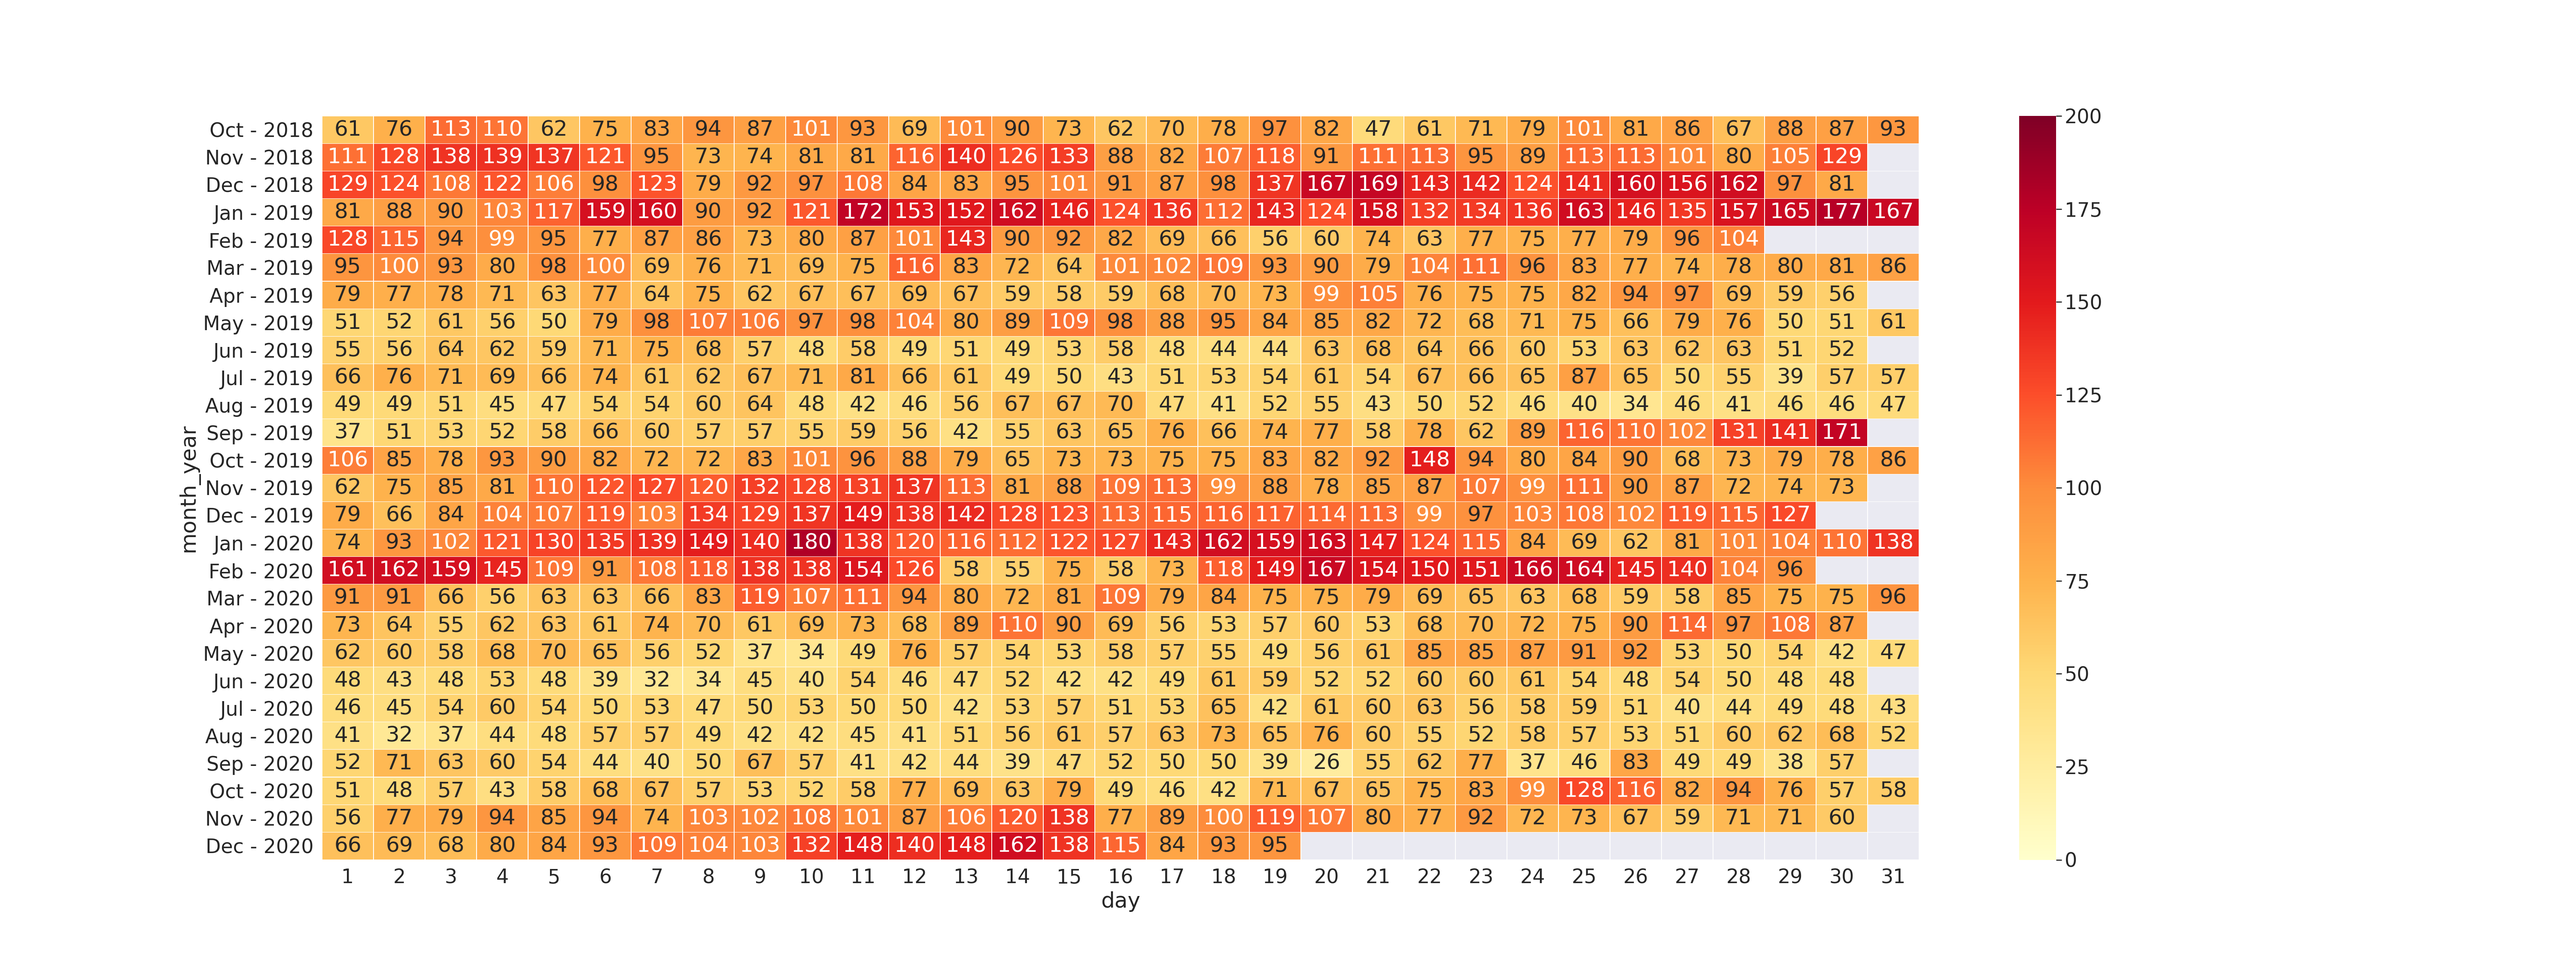
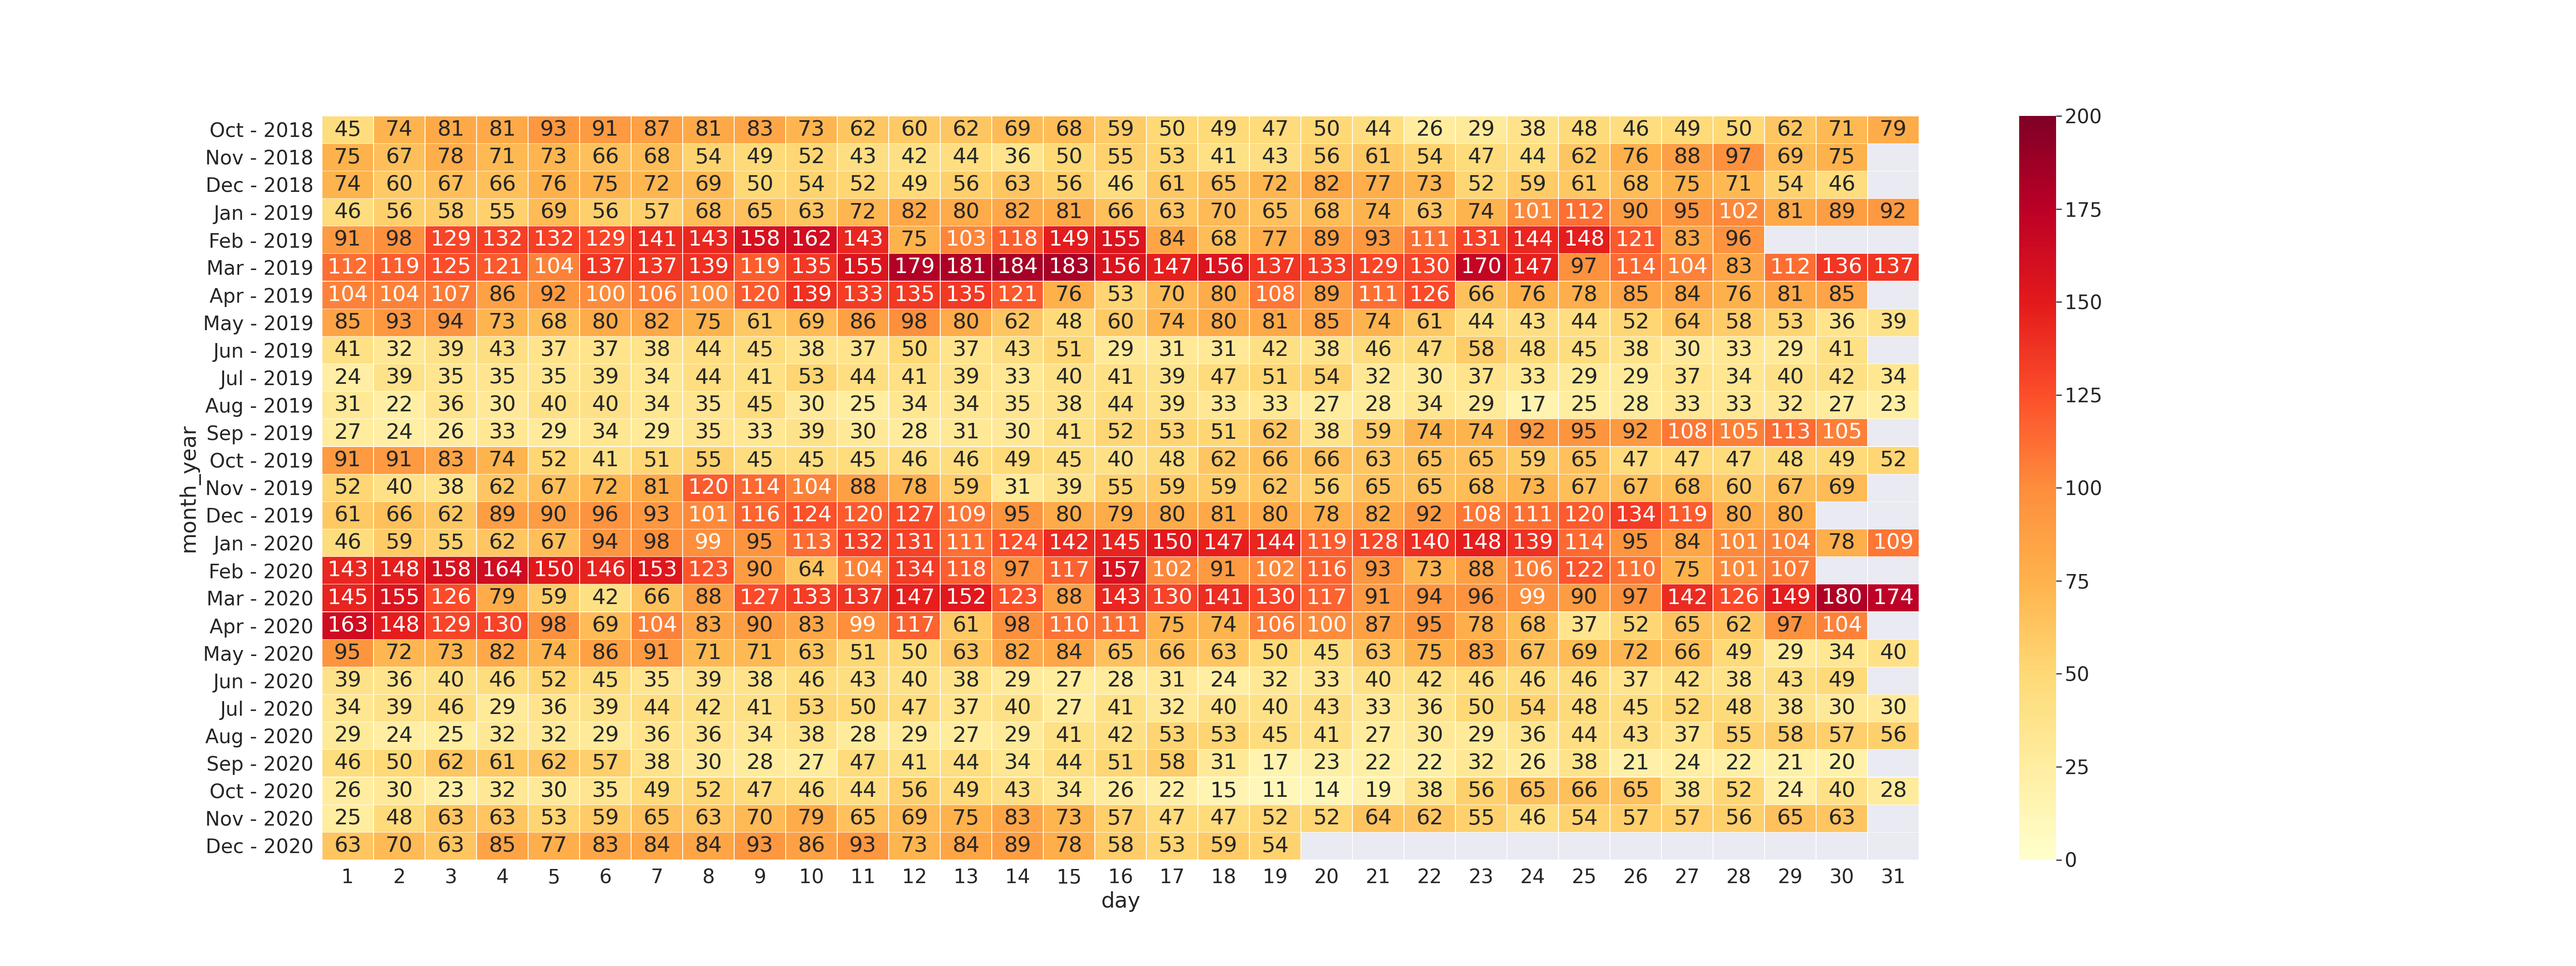
เลือกจังหวัดได้

diff --git a/flask/app.py b/flask/app.py
@@ -4,41 +4,45 @@ import plot
 
 client = MongoClient('mongodb://54.254.190.113:27017/')
 
-app = Flask(__name__,static_url_path='', static_folder='static',template_folder='templates')
+app = Flask(__name__, static_url_path='',
+            static_folder='static', template_folder='templates')
+
 
 @app.route('/')
 def index():
     return render_template('index.html')
 
+
 @app.route('/city/<name>')
 def map_selected(name):
-    return render_template('map_selected.html',name=name)
+    return render_template('map_selected.html', name=name)
 
-@app.route('/api/<city>/<year>/<month>',methods=['GET', 'POST'])
-def pm25OneMonth(city,year,month):
+
+@app.route('/api/<city>/<year>/<month>', methods=['GET', 'POST'])
+def pm25OneMonth(city, year, month):
     a = []
-    for x in client.cs457.Bangkok.find({'date':{ "$regex": year+"/"+month+"/*" } }):
-        a.append({'date':x['date'],'pm25':x[' pm25']})
-    # gen_pic(a)
+    for x in client['cs457'][city].find({'date': {"$regex": year+"/"+month+"/*"}}):
+        a.append({'date': x['date'], 'pm25': x[' pm25']})
     return jsonify(a)
 
-@app.route('/api/<city>/<year>',methods=['GET', 'POST'])
-def pm25Year(city,year):
+
+@app.route('/api/<city>/<year>', methods=['GET', 'POST'])
+def pm25Year(city, year):
     a = []
-    for x in client.cs457.Bangkok.find({'date':{ "$regex": year+"/*" } }):
-        a.append({'date':x['date'],'pm25':x[' pm25']})
-    # gen_pic(a)
+    for x in client['cs457'][city].find({'date': {"$regex": year+"/*"}}):
+        a.append({'date': x['date'], 'pm25': x[' pm25']})
     return jsonify(a)
 
-@app.route('/api/<city>',methods=['GET', 'POST'])
+
+@app.route('/api/<city>', methods=['GET', 'POST'])
 def pm25City(city):
     a = []
-    for x in client.cs457.Bangkok.find({'date':{ "$regex": "/*" } }):
-        a.append({'date':x['date'],'pm25':x[' pm25']})
-    # gen_pic(a)
+    for x in client['cs457'][city].find({'date': {"$regex": "/*"}}):
+        a.append({'date': x['date'], 'pm25': x[' pm25']})
     plot.toBarplot(a)
     plot.toHeatplot(a)
     return jsonify(a)
 
+
 if __name__ == '__main__':
-    app.run(debug=True,host='0.0.0.0')
+    app.run(debug=True, host='0.0.0.0')
